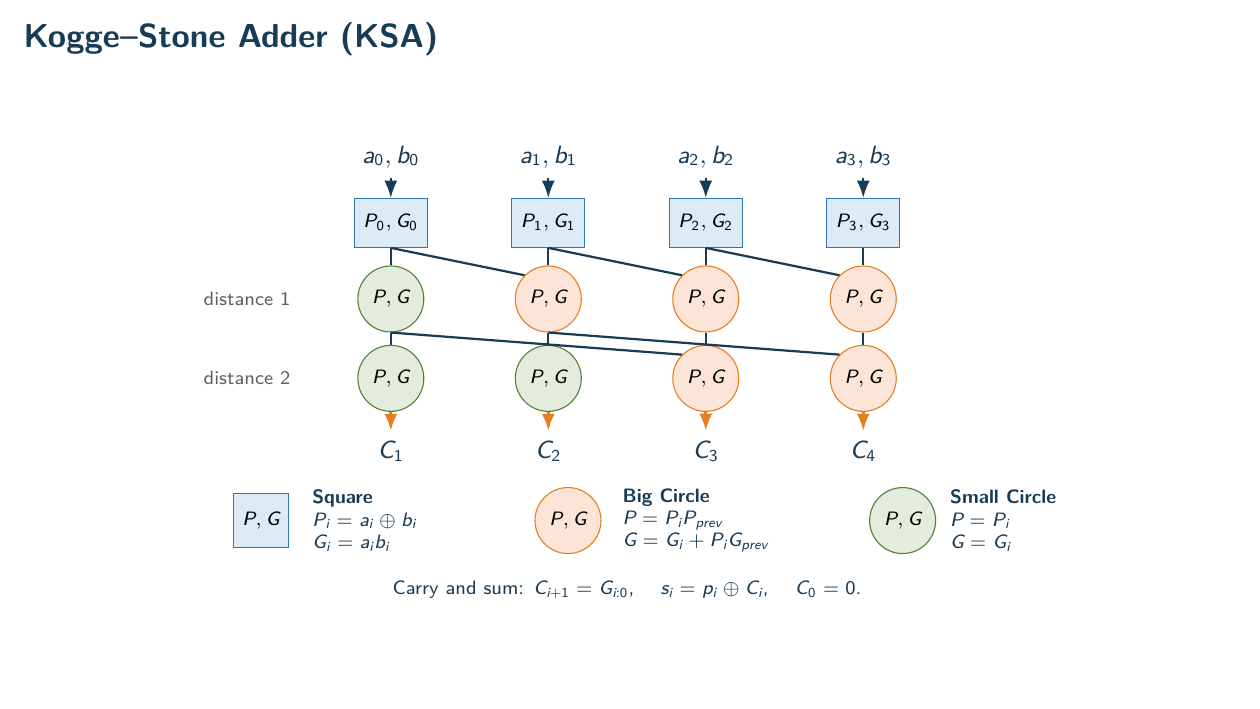
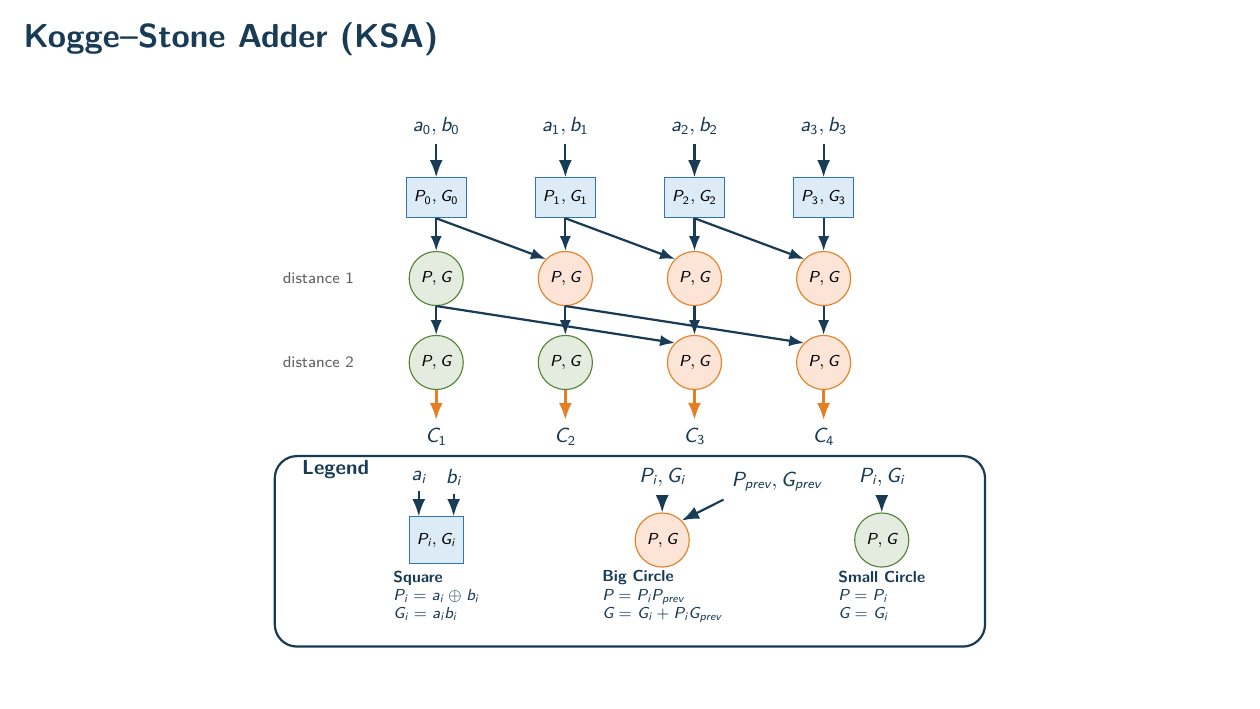
redraw Kogge-Stone arrows and operator legend

diff --git a/docs/diagrams/adder_architectures.tex b/docs/diagrams/adder_architectures.tex
@@ -26,6 +26,7 @@
   prefnode/.style={draw=Navy,fill=Navy,circle,minimum size=.27cm,inner sep=0pt},
   grayprefix/.style={draw=Navy,fill=white,circle,minimum size=.27cm,inner sep=0pt},
   data/.style={-{Latex[length=2.2mm]},draw=Navy,thick},
+  prefixarrow/.style={-{Latex[length=1.9mm]},draw=Navy,thick},
   carry/.style={-{Latex[length=2.2mm]},draw=Orange,very thick},
   control/.style={-{Latex[length=2.2mm]},draw=Purple,thick,dashed},
   note/.style={font=\scriptsize\sffamily,text=Gray,align=center},
@@ -229,67 +230,87 @@
 % 5. Kogge-Stone Adder
 \begin{frame}{Kogge--Stone Adder (KSA)}
 \centering
-\begin{tikzpicture}[x=1cm,y=.84cm]
+\begin{tikzpicture}[scale=.82,every node/.style={transform shape},x=1cm,y=1cm]
   % Every bit occupies one column and every prefix distance occupies one row.
   % For a four-bit tree, C1 passes through two Small Circles, C2 through one,
   % and C3/C4 use Big Circles in both prefix rows.
   \foreach \i/\x in {0/-3,1/-1,2/1,3/3}{
-    \node[pg,minimum width=.88cm,minimum height=.62cm] (sq\i) at (\x,2.45)
+    \node[pg,minimum width=.88cm,minimum height=.62cm] (sq\i) at (\x,2.05)
       {$P_{\i},G_{\i}$};
-    \node[label] (in\i) at (\x,3.45) {$a_{\i},b_{\i}$};
+    \node[label] (in\i) at (\x,3.15) {$a_{\i},b_{\i}$};
     \draw[data] (in\i.south) -- (sq\i.north);
   }
 
   % Prefix row 1: distance 1.
-  \node[draw=Green,fill=Green!16,circle,minimum size=.56cm,font=\scriptsize\sffamily] (sc10) at (-3,1.30) {$P,G$};
-  \node[draw=Orange,fill=OrangeLight,circle,minimum size=.74cm,font=\scriptsize\sffamily] (bc11) at (-1,1.30) {$P,G$};
-  \node[draw=Orange,fill=OrangeLight,circle,minimum size=.74cm,font=\scriptsize\sffamily] (bc12) at (1,1.30) {$P,G$};
-  \node[draw=Orange,fill=OrangeLight,circle,minimum size=.74cm,font=\scriptsize\sffamily] (bc13) at (3,1.30) {$P,G$};
+  \node[draw=Green,fill=Green!16,circle,minimum size=.56cm,font=\scriptsize\sffamily] (sc10) at (-3,.80) {$P,G$};
+  \node[draw=Orange,fill=OrangeLight,circle,minimum size=.74cm,font=\scriptsize\sffamily] (bc11) at (-1,.80) {$P,G$};
+  \node[draw=Orange,fill=OrangeLight,circle,minimum size=.74cm,font=\scriptsize\sffamily] (bc12) at (1,.80) {$P,G$};
+  \node[draw=Orange,fill=OrangeLight,circle,minimum size=.74cm,font=\scriptsize\sffamily] (bc13) at (3,.80) {$P,G$};
 
   % Prefix row 2: distance 2.
-  \node[draw=Green,fill=Green!16,circle,minimum size=.56cm,font=\scriptsize\sffamily] (sc20) at (-3,.10) {$P,G$};
-  \node[draw=Green,fill=Green!16,circle,minimum size=.56cm,font=\scriptsize\sffamily] (sc21) at (-1,.10) {$P,G$};
-  \node[draw=Orange,fill=OrangeLight,circle,minimum size=.74cm,font=\scriptsize\sffamily] (bc22) at (1,.10) {$P,G$};
-  \node[draw=Orange,fill=OrangeLight,circle,minimum size=.74cm,font=\scriptsize\sffamily] (bc23) at (3,.10) {$P,G$};
+  \node[draw=Green,fill=Green!16,circle,minimum size=.56cm,font=\scriptsize\sffamily] (sc20) at (-3,-.50) {$P,G$};
+  \node[draw=Green,fill=Green!16,circle,minimum size=.56cm,font=\scriptsize\sffamily] (sc21) at (-1,-.50) {$P,G$};
+  \node[draw=Orange,fill=OrangeLight,circle,minimum size=.74cm,font=\scriptsize\sffamily] (bc22) at (1,-.50) {$P,G$};
+  \node[draw=Orange,fill=OrangeLight,circle,minimum size=.74cm,font=\scriptsize\sffamily] (bc23) at (3,-.50) {$P,G$};
 
-  % Prefix wires intentionally omit arrowheads to keep crossings legible.
-  \draw[draw=Navy,thick] (sq0.south) -- (sc10.north);
-  \draw[draw=Navy,thick] (sq1.south) -- (bc11.north);
-  \draw[draw=Navy,thick] (sq0.south) -- (bc11.north west);
-  \draw[draw=Navy,thick] (sq2.south) -- (bc12.north);
-  \draw[draw=Navy,thick] (sq1.south) -- (bc12.north west);
-  \draw[draw=Navy,thick] (sq3.south) -- (bc13.north);
-  \draw[draw=Navy,thick] (sq2.south) -- (bc13.north west);
+  % Every prefix dependency is directed from its source operator to the
+  % operator that consumes it. Arrowheads make both vertical and diagonal
+  % dependencies explicit.
+  \draw[prefixarrow] (sq0.south) -- (sc10.north);
+  \draw[prefixarrow] (sq1.south) -- (bc11.north);
+  \draw[prefixarrow] (sq0.south) -- (bc11.north west);
+  \draw[prefixarrow] (sq2.south) -- (bc12.north);
+  \draw[prefixarrow] (sq1.south) -- (bc12.north west);
+  \draw[prefixarrow] (sq3.south) -- (bc13.north);
+  \draw[prefixarrow] (sq2.south) -- (bc13.north west);
 
-  \draw[draw=Navy,thick] (sc10.south) -- (sc20.north);
-  \draw[draw=Navy,thick] (bc11.south) -- (sc21.north);
-  \draw[draw=Navy,thick] (bc12.south) -- (bc22.north);
-  \draw[draw=Navy,thick] (sc10.south) -- (bc22.north west);
-  \draw[draw=Navy,thick] (bc13.south) -- (bc23.north);
-  \draw[draw=Navy,thick] (bc11.south) -- (bc23.north west);
+  \draw[prefixarrow] (sc10.south) -- (sc20.north);
+  \draw[prefixarrow] (bc11.south) -- (sc21.north);
+  \draw[prefixarrow] (bc12.south) -- (bc22.north);
+  \draw[prefixarrow] (sc10.south) -- (bc22.north west);
+  \draw[prefixarrow] (bc13.south) -- (bc23.north);
+  \draw[prefixarrow] (bc11.south) -- (bc23.north west);
 
   \foreach \i/\x/\source in {0/-3/sc20,1/-1/sc21,2/1/bc22,3/3/bc23}{
-    \node[label] (carry\i) at (\x,-1.00) {$C_{\the\numexpr\i+1\relax}$};
+    \node[label] (carry\i) at (\x,-1.65) {$C_{\the\numexpr\i+1\relax}$};
     \draw[carry] (\source.south) -- (carry\i.north);
   }
-  \node[note,anchor=east] at (-4.15,1.30) {distance 1};
-  \node[note,anchor=east] at (-4.15,.10) {distance 2};
+  \node[note,anchor=east] at (-4.15,.80) {distance 1};
+  \node[note,anchor=east] at (-4.15,-.50) {distance 2};
 
-  % Operator legend and the exact Boolean expressions implemented by KSA4.v.
-  \node[pg,minimum width=.68cm,minimum height=.68cm] at (-4.65,-2.05) {$P,G$};
-  \node[note,anchor=west,text=Navy,align=left] at (-4.12,-2.05)
+  % Operator legend: every operator is shown with every input that it
+  % consumes, followed by the exact equations used in the RTL.
+  \draw[draw=Navy,rounded corners=8pt,line width=.8pt]
+    (-5.50,-4.90) rectangle (5.50,-1.95);
+  \node[label,anchor=west,font=\small\bfseries\sffamily] at (-5.20,-2.16)
+    {Legend};
+
+  % Square operator: two primary inputs.
+  \node[pg,minimum width=.84cm,minimum height=.72cm] (legsq) at (-3.00,-3.25) {$P_i,G_i$};
+  \node[label] (lega) at (-3.27,-2.28) {$a_i$};
+  \node[label] (legb) at (-2.73,-2.28) {$b_i$};
+  \draw[data] (lega.south) -- (legsq.north -| lega);
+  \draw[data] (legb.south) -- (legsq.north -| legb);
+  \node[note,anchor=north,text=Navy,align=left] at (-3.00,-3.60)
     {\textbf{Square}\\$P_i=a_i\oplus b_i$\\$G_i=a_i b_i$};
 
-  \node[draw=Orange,fill=OrangeLight,circle,minimum size=.70cm,font=\scriptsize\sffamily] at (-.75,-2.05) {$P,G$};
-  \node[note,anchor=west,text=Navy,align=left] at (-.18,-2.05)
+  % Big Circle operator: the current group and the previous group.
+  \node[draw=Orange,fill=OrangeLight,circle,minimum size=.78cm,font=\scriptsize\sffamily]
+    (legbig) at (.50,-3.25) {$P,G$};
+  \node[label] (legbigi) at (.50,-2.28) {$P_i,G_i$};
+  \node[label,anchor=west] (legbigp) at (1.45,-2.35) {$P_{prev},G_{prev}$};
+  \draw[data] (legbigi.south) -- (legbig.north);
+  \draw[data] (legbigp.south west) -- (legbig.north east);
+  \node[note,anchor=north,text=Navy,align=left] at (.50,-3.60)
     {\textbf{Big Circle}\\$P=P_iP_{prev}$\\$G=G_i+P_iG_{prev}$};
 
-  \node[draw=Green,fill=Green!16,circle,minimum size=.56cm,font=\scriptsize\sffamily] at (3.50,-2.05) {$P,G$};
-  \node[note,anchor=west,text=Navy,align=left] at (3.98,-2.05)
+  % Small Circle operator: one current-group input.
+  \node[draw=Green,fill=Green!16,circle,minimum size=.60cm,font=\scriptsize\sffamily]
+    (legsmall) at (3.90,-3.25) {$P,G$};
+  \node[label] (legsmalli) at (3.90,-2.28) {$P_i,G_i$};
+  \draw[data] (legsmalli.south) -- (legsmall.north);
+  \node[note,anchor=north,text=Navy,align=left] at (3.90,-3.60)
     {\textbf{Small Circle}\\$P=P_i$\\$G=G_i$};
-
-  \node[note,text=Navy] at (0,-3.10)
-    {Carry and sum: $C_{i+1}=G_{i:0}$, \quad $s_i=p_i\oplus C_i$, \quad $C_0=0$.};
 \end{tikzpicture}
 \end{frame}
 
